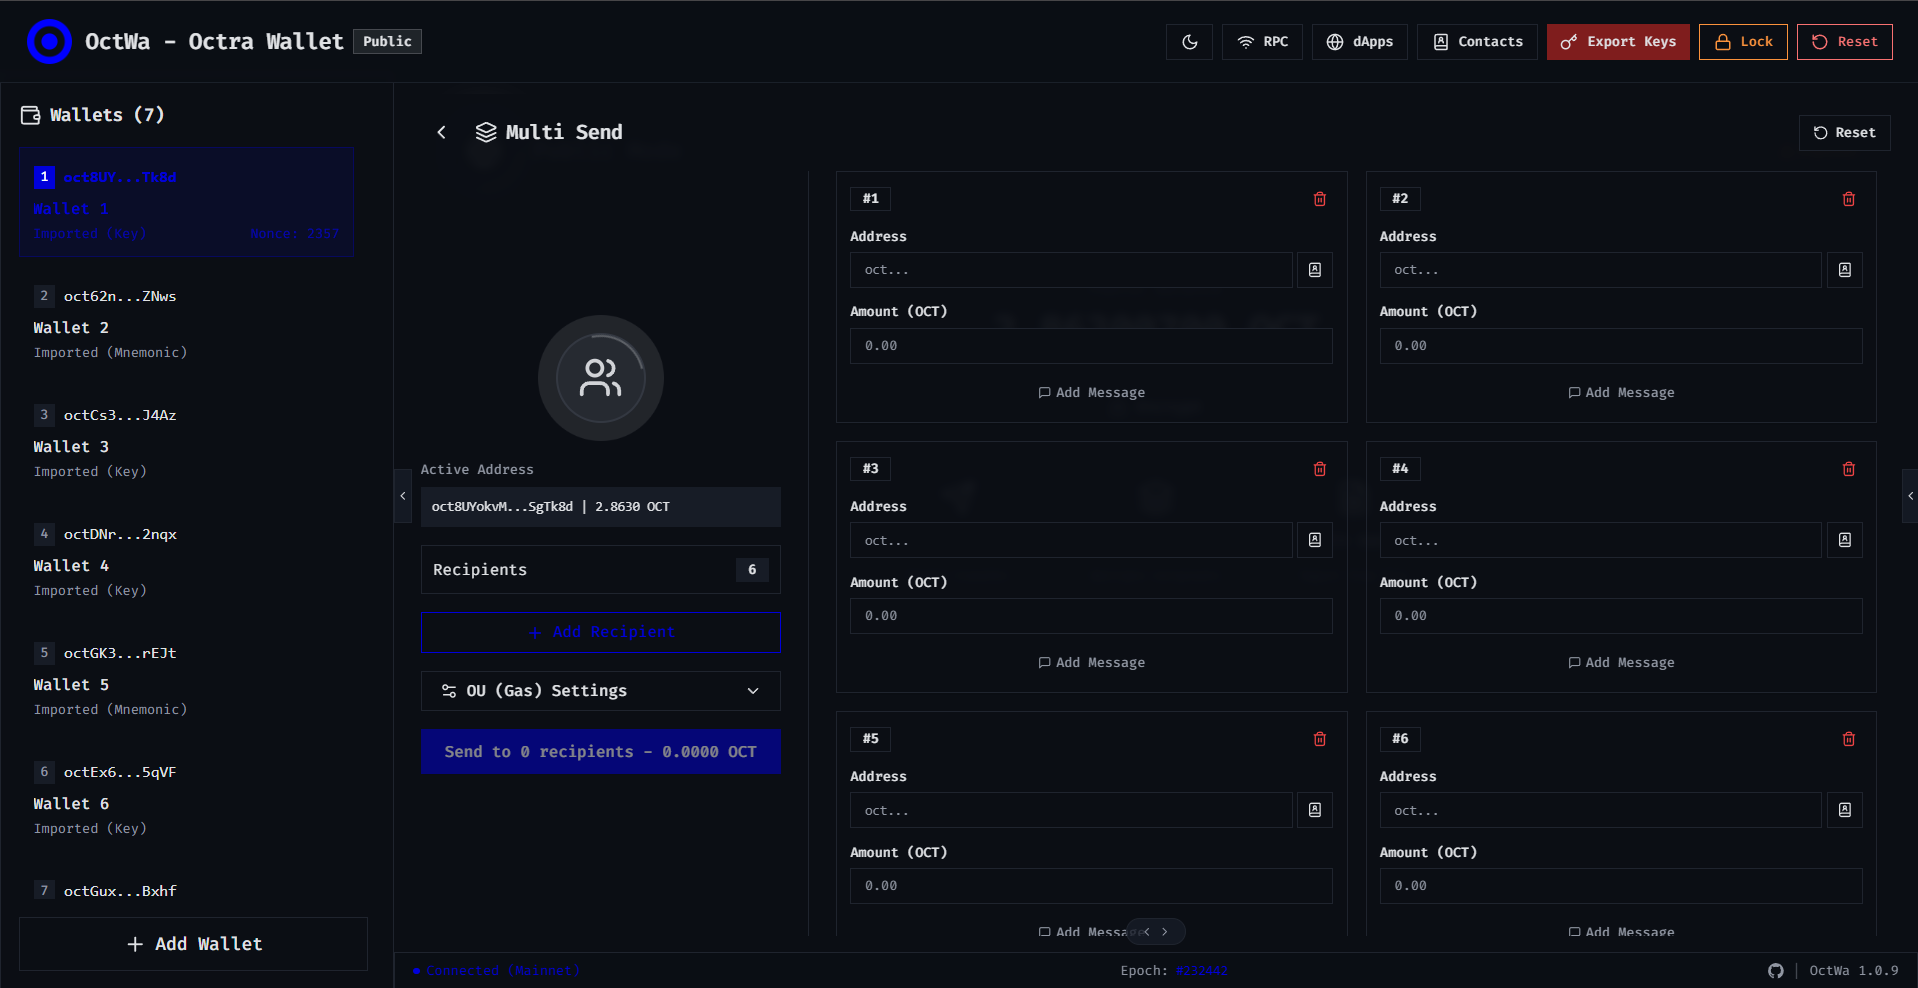
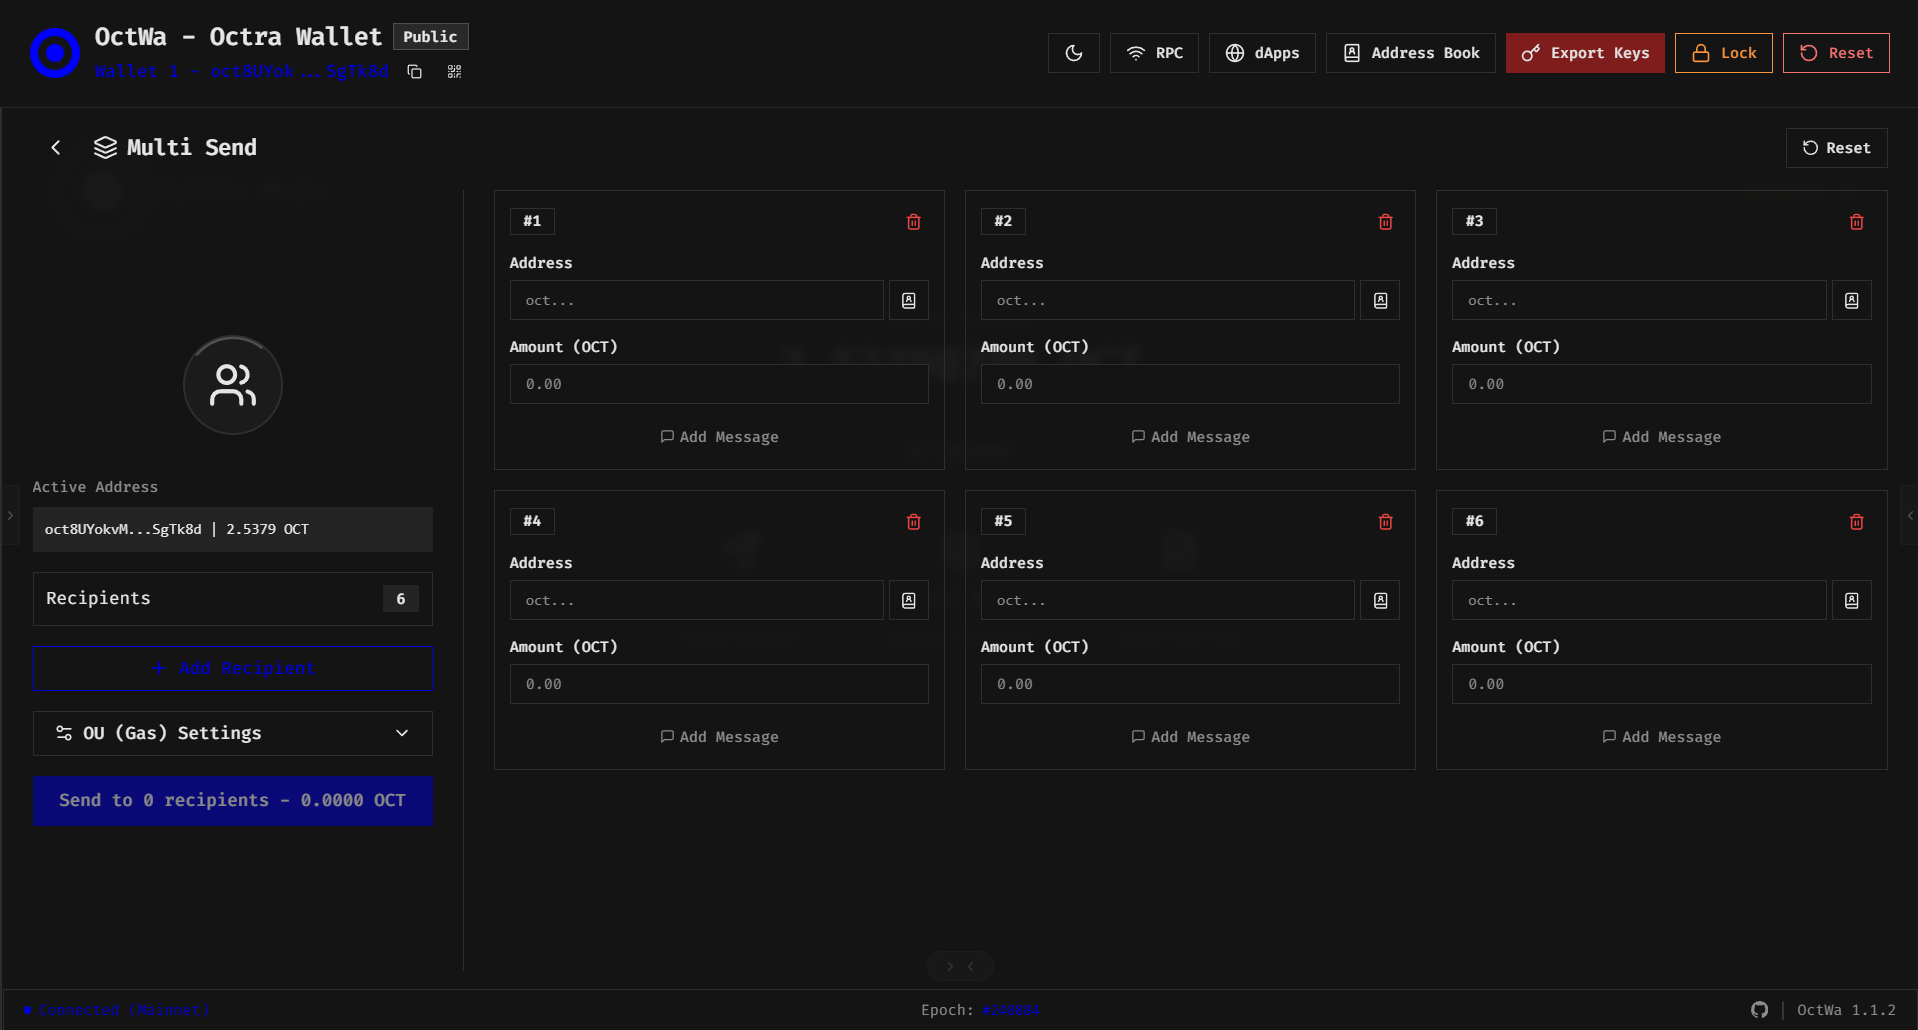
improvements

diff --git a/src/components/SendTransaction.tsx b/src/components/SendTransaction.tsx
@@ -342,9 +342,6 @@ export function SendTransaction({ wallet, balance, nonce, onBalanceUpdate, onNon
   if (isCompact) {
     return (
       <div className="space-y-3" ref={dropdownRef}>
-        {/* Animated Icon - Compact */}
-        <AnimatedIcon type="send-public" size="xs" />
-
         {/* Recipient Address */}
         <div className="space-y-1 relative">
           <div className="flex items-center justify-between">
@@ -551,6 +548,43 @@ export function SendTransaction({ wallet, balance, nonce, onBalanceUpdate, onNon
             />
           )}
         </div>
+
+        {/* Message Toggle - Compact */}
+        {!showMessage ? (
+          <button
+            type="button"
+            onClick={() => setShowMessage(true)}
+            className="w-full text-left text-[10px] text-muted-foreground hover:text-foreground py-1"
+          >
+            + Add Message
+          </button>
+        ) : (
+          <div className="space-y-1">
+            <div className="flex items-center justify-between">
+              <Label htmlFor="message-compact" className="text-xs">Message</Label>
+              <button
+                type="button"
+                onClick={() => {
+                  setShowMessage(false);
+                  setMessage('');
+                }}
+                className="text-[10px] text-muted-foreground hover:text-foreground"
+              >
+                Remove
+              </button>
+            </div>
+            <Textarea
+              id="message-compact"
+              placeholder="Optional message (max 1024 chars)"
+              value={message}
+              onChange={(e) => setMessage(e.target.value)}
+              maxLength={1024}
+              rows={2}
+              className="text-xs min-h-[60px] resize-none"
+            />
+            <div className="text-[10px] text-muted-foreground text-right">{message.length}/1024</div>
+          </div>
+        )}
 
         {/* Fee Summary - Compact */}
         {amount && validateAmount(amount) && (

diff --git a/README.md b/README.md
@@ -2,6 +2,8 @@
 
 A secure browser-based wallet for the Octra blockchain network. Available as both a web application and Chrome/Edge browser extension.
 
+**Encrypted by Default** — Powered by Octra HFHE
+
 ## Security Features
 
 OctWa implements industry-standard security practices to protect your assets:
@@ -34,6 +36,17 @@ OctWa implements industry-standard security practices to protect your assets:
 
 ## Screenshots
 
+### Onboarding Experience
+
+<p align="center">
+  <img src="public/screenshot/onboarding_first.png" alt="Onboarding First" width="400">
+  <img src="public/screenshot/onboarding_last.png" alt="Onboarding Last" width="400">
+  <br>
+  <em>Onboarding Flow - Learn about Public vs Private Mode, Encryption, and Octra's unique features</em>
+</p>
+
+### Getting Started
+
 <p align="center">
   <img src="public/screenshot/welcome.png" alt="Welcome Screen" width="400">
   <br>
@@ -45,6 +58,8 @@ OctWa implements industry-standard security practices to protect your assets:
   <br>
   <em>Password Setup - Secure your wallet</em>
 </p>
+
+### Dashboard & Wallet Management
 
 <p align="center">
   <img src="public/screenshot/dashboard.png" alt="Dashboard" width="400">
@@ -58,10 +73,18 @@ OctWa implements industry-standard security practices to protect your assets:
   <em>Multi Wallet - Manage multiple wallets</em>
 </p>
 
+### Privacy Features
+
+<p align="center">
+  <img src="public/screenshot/privacy_first.png" alt="Privacy First" width="400">
+  <br>
+  <em>Privacy First - Mode switch confirmation with educational warnings</em>
+</p>
+
 <p align="center">
   <img src="public/screenshot/private.png" alt="Private Mode" width="400">
   <br>
-  <em>Private Mode - Confidential transactions</em>
+  <em>Private Mode - Confidential transactions with FHE encryption</em>
 </p>
 
 ### Multi-Send & Bulk Send (Expanded Mode)
@@ -139,13 +162,30 @@ OctWa implements industry-standard security practices to protect your assets:
   - Reset functionality to clear all data
 - **Transaction History** - View complete transaction history with status tracking
 - **OU (Gas) Settings** - Configurable gas settings with auto mode
+- **Optional Message** - Add optional message to transactions (available in popup mode too)
 
 ### Privacy Features (Confidential Transactions)
 - **Public/Private Mode Toggle** - Switch between public and private operation modes
+- **Mode Switch Confirmation** - Educational warning dialog when leaving Private Mode
+  - Explains implications of switching to Public Mode
+  - "Don't remind me again" option for power users
+  - Compact mode for popup view
 - **Encrypt Balance** - Convert public balance to encrypted/private balance
-- **Decrypt Balance** - Convert encrypted balance back to public balance
+- **Decrypt Balance** - Convert encrypted balance back to public balance (with warning styling)
 - **Private Transfer** - Send confidential transactions with encrypted amounts
 - **Claim Transfers** - Claim incoming private transfers
+- **Sensitive Actions Zone** - Visual separation for risky operations (Decrypt, Export Keys)
+
+### Onboarding & Education
+- **3-Step Onboarding Flow** - First-time user education (dismissable)
+  - Step 1: Public vs Private Mode explanation
+  - Step 2: What "Encrypt" means (FHE explanation)
+  - Step 3: Why Octra is different
+- **Info Tooltips** - Contextual help icons throughout the UI
+  - Encrypted Balance explanation
+  - Exposed status warning
+  - Decrypt action implications
+- **Resets on Wallet Reset** - Onboarding shows again after wallet reset
 
 ### dApp Integration
 - **Web3 Provider** - Inject `window.octra` provider for dApp connectivity
@@ -177,7 +217,7 @@ OctWa implements industry-standard security practices to protect your assets:
 - **Animated Icons** - Visual feedback with animated icons for send operations
 - **RPC Provider Manager** - Configure and switch between RPC endpoints
 - **Connection Status** - Real-time RPC connection status indicator
-- **Dynamic Version Display** - Version automatically synced from manifest.json
+- **Dynamic App Name & Version** - Name and version automatically synced from manifest.json
 - **Adaptive Scrollbars** - Smart scrollbar padding that appears only when needed
   - Prevents layout shift when scrollbar appears/disappears
   - Applied to wallet lists, transaction history, and multi-send panels
@@ -261,16 +301,17 @@ npm install
   - `assets/popup.js`, `assets/expanded.js`, `assets/index.css` from Vite build.
 - Zip `dist/` and submit to Chrome Web Store / Edge Add-ons.
 
-## Version Management
+## Version & Name Management
 
-The app version is automatically read from `extensionFiles/manifest.json` during build time. To update the version:
+The app name and version are automatically read from `extensionFiles/manifest.json` during build time. To update:
 
-1. Edit `extensionFiles/manifest.json` and update the `version` field
+1. Edit `extensionFiles/manifest.json` and update the `name` and/or `version` field
 2. Run `npm run build:extension`
-3. The new version will be displayed in:
-   - Popup mode footer: `Mainnet | OctWa x.x.x`
-   - Expanded mode footer: `Mainnet | OctWa x.x.x`
-   - Wallet menu (popup): `OctWa x.x.x`
+3. The new values will be displayed in:
+   - HTML page title (from `action.default_title`)
+   - Header title in dashboard
+   - Footer version display
+   - Splash screen and welcome screen
 
 ## Nginx (web) configuration
 
@@ -330,7 +371,10 @@ server {
 - Multi-entry build: `vite.config.ts` defines inputs for `index.html` (web), `src/popup.tsx` (extension popup), and `src/expanded.tsx` (extension expanded view).
 - Extension popup HTML: `extensionFiles/popup.html` loads `assets/popup.js` and adds `#root`.
 - Background/content/provider scripts live in `extensionFiles/` and are copied to `dist` during `build:extension`.
-- Version injection: `vite.config.ts` reads version from `extensionFiles/manifest.json` and injects it as `__APP_VERSION__` global constant.
+- Build-time injection: `vite.config.ts` reads from `extensionFiles/manifest.json` and injects:
+  - `__APP_VERSION__` - Version string
+  - `__APP_NAME__` - Full app name
+  - `__APP_TITLE__` - Title from action.default_title
 
 ## Troubleshooting
 - `npm run deploy` references `./deploy.sh`, which is not present; use `npm run build:prod` and your own hosting steps.
